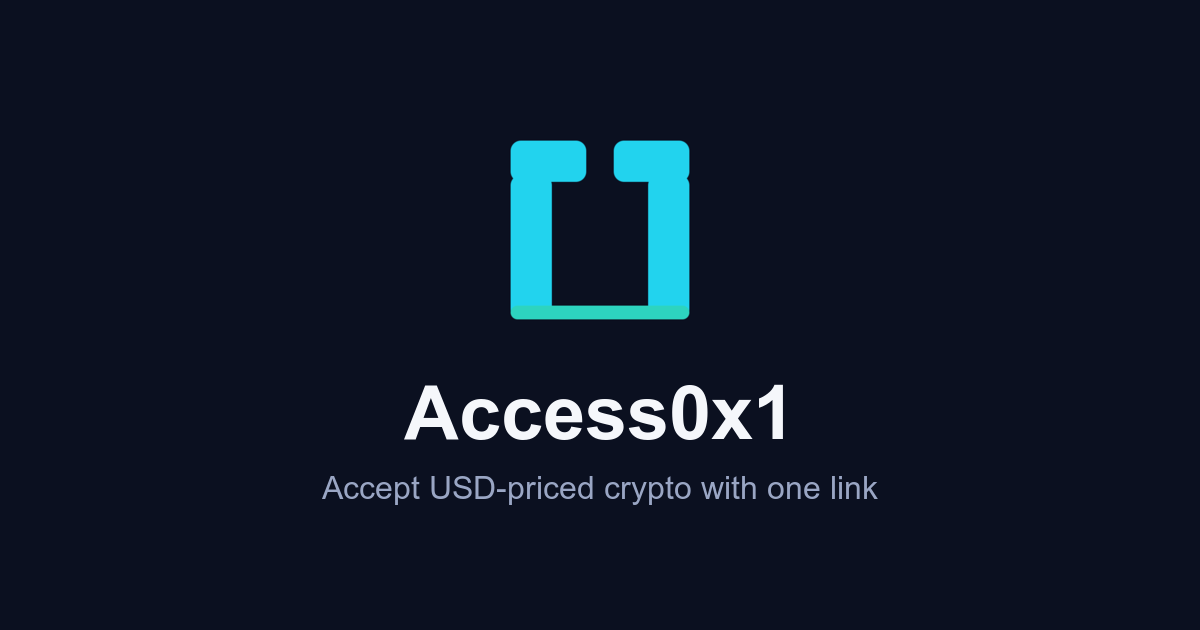
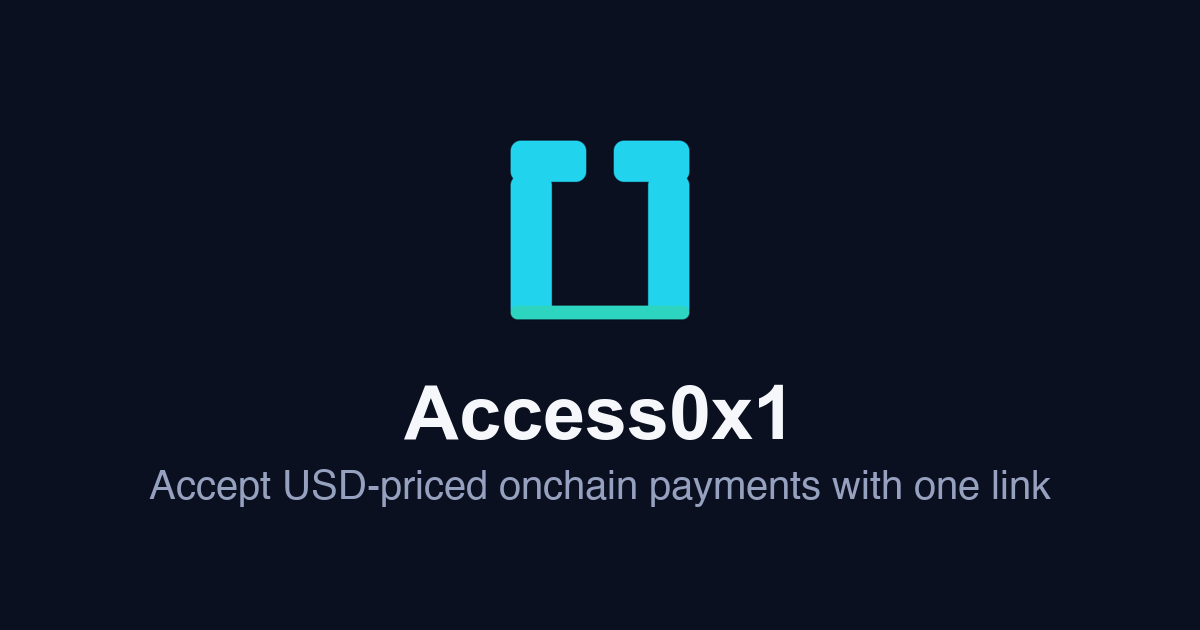
copy: "crypto" out of every rendered surface; claims trued up
Reword user-facing copy from "crypto" to concrete, accurate language
("USD-priced onchain payments", "get paid in USDC") across the hero,
feature grid, onboarding view, page/layout metadata, manifest, judge
facts, ask/landing intros — and the two surfaces a text grep can't see:
og.png (tagline was baked into the pixels; re-rendered, same design) and
the embed's default buyer button label ('Pay with Crypto' → 'Pay with
USDC', verify-embed assertion updated in lockstep). Truth fixes riding
along: "Twelve open-source contracts" (wrong in every reading) → a
non-numeric phrase; "A Chainlink feed quotes the USD price" → "a
Chainlink-interface price feed" (accurate on chains where the wired feed
is a mock); doubled "get paid in USDC" in the onboard descriptions
deduped; README + marketing/seo.md metadata mirrors re-synced (SEO
keyword-target tables intentionally untouched — they quote search
phrases, not our copy). JS API uses (Web Crypto, third-party field
names) and code comments unchanged. Web gate: tsc clean, 1254/1254.

Changed region(s): [[0.1233, 0.7238, 0.8942, 0.8143]]

diff --git a/web/app/marketing-metadata.ts b/web/app/marketing-metadata.ts
@@ -83,7 +83,7 @@ const baseTwitter = {
  * bare domain before the redirect resolves. `index, follow`.
  */
 export const rootMetadata = {
-  title: 'Accept USD-priced crypto with one link · Access0x1',
+  title: 'Accept USD-priced onchain payments with one link · Access0x1',
   description:
     'Onboard once, share a link, get paid in USDC. Zero custody — every payment settles ' +
     'merchant-to-payout in a single transaction. Open-source router. Testnet.',
@@ -113,7 +113,7 @@ export const rootMetadata = {
  * server `layout.tsx` exports this; the client view renders unchanged. `index, follow`.
  */
 export const onboardMetadata = {
-  title: 'Create your crypto payment link · Access0x1',
+  title: 'Create your USDC payment link · Access0x1',
   description:
     'Make it yours: set a name, a tagline, and a logo, then accept USDC with one link — ' +
     'no code, no contract, no gas to manage. Non-custodial. Testnet build.',
@@ -124,7 +124,7 @@ export const onboardMetadata = {
     title: 'Onboard in minutes — your branded USDC checkout link',
     description:
       'Register once, share one link, get paid in USDC. Zero custody, USD-priced via ' +
-      'Chainlink. The non-custodial way to accept crypto.',
+      'Chainlink. Zero-custody by design.',
     url: `${SITE_ORIGIN}/onboard`,
     images: [{ url: '/og/onboard.png', width: 1200, height: 630, alt: 'Access0x1 — onboard' }],
   },
@@ -133,7 +133,7 @@ export const onboardMetadata = {
     title: 'Onboard in minutes — your branded USDC checkout link',
     description:
       'Register once, share one link, get paid in USDC. Zero custody, USD-priced via ' +
-      'Chainlink. The non-custodial way to accept crypto.',
+      'Chainlink. Zero-custody by design.',
     images: ['/og/onboard.png'],
   },
 } satisfies Metadata;
@@ -174,7 +174,7 @@ export const dashboardMetadata = {
  * `index, follow`.
  */
 export const askMetadata = {
-  title: 'Ask Access0x1 — crypto payments & agents AI · Access0x1',
+  title: 'Ask Access0x1 — onchain payments & agents AI · Access0x1',
   description:
     'Ask anything about onchain payments, USDC, agents, and zero-custody commerce. ' +
     'Answers grounded in the open-source Access0x1 repo. Testnet build.',
@@ -184,7 +184,7 @@ export const askMetadata = {
     ...baseOpenGraph,
     title: 'Ask Access0x1 — answers about onchain payments & agent USDC',
     description:
-      'A grounded AI assistant for the open Access0x1 stack: USD-priced crypto checkout, ' +
+      'A grounded AI assistant for the open Access0x1 stack: USD-priced onchain checkout, ' +
       'non-custodial settlement, and agent payments.',
     url: `${SITE_ORIGIN}/ask`,
     images: [{ url: '/og/ask.png', width: 1200, height: 630, alt: 'Ask Access0x1' }],
@@ -193,7 +193,7 @@ export const askMetadata = {
     ...baseTwitter,
     title: 'Ask Access0x1 — answers about onchain payments & agent USDC',
     description:
-      'A grounded AI assistant for the open Access0x1 stack: USD-priced crypto checkout, ' +
+      'A grounded AI assistant for the open Access0x1 stack: USD-priced onchain checkout, ' +
       'non-custodial settlement, and agent payments.',
     images: ['/og/ask.png'],
   },
@@ -390,18 +390,18 @@ export const softwareApplicationJsonLd = {
   '@type': 'SoftwareApplication',
   name: 'Access0x1',
   applicationCategory: 'FinanceApplication',
-  applicationSubCategory: 'Crypto payments / checkout SDK',
+  applicationSubCategory: 'Onchain payments / checkout SDK',
   operatingSystem: 'Web',
   url: SITE_ORIGIN,
   description:
     'Open-source, non-custodial onchain layer for payments, auth, and agents. Accept ' +
-    'USD-priced crypto in USDC with one link — no contract code, zero custody.',
+    'USD-priced payments in USDC with one link — no contract code, zero custody.',
   softwareVersion: '0.1.0',
   isAccessibleForFree: true,
   license: 'https://opensource.org/license/mit',
   offers: { '@type': 'Offer', price: '0', priceCurrency: 'USD' },
   featureList: [
-    'USD-priced crypto checkout (Chainlink quotes)',
+    'USD-priced onchain checkout (Chainlink-interface price feeds)',
     'One-link / one-tag hosted checkout',
     'Non-custodial settlement (zero custody)',
     'Agent payments in USDC (ERC-6909 PaymentLanes, ERC-7702 sessions)',

diff --git a/web/lib/judge/facts.ts b/web/lib/judge/facts.ts
@@ -36,10 +36,10 @@ export const FACT_SECTIONS: readonly FactSection[] = [
     title: 'What Access0x1 is',
     body:
       'Access0x1 is an open-source (MIT), multi-chain, zero-custody layer for getting a ' +
-      'business onchain: USD-priced crypto payments, a commerce suite (subscriptions, ' +
+      'business onchain: USD-priced onchain payments, a commerce suite (subscriptions, ' +
       'bookings, invoices, gift cards, NFTs), and identity/auth — white-label for ' +
       'non-coders and agent-native. A business registers once and accepts USD-priced ' +
-      'crypto with a single link: no per-merchant contract to deploy, no custody. One ' +
+      'payments in USDC with a single link: no per-merchant contract to deploy, no custody. One ' +
       'shared, multi-tenant Access0x1Router serves every merchant; a permissionless ' +
       'registerMerchant returns a merchantId and the caller owns only their own config. ' +
       'It is built so a developer writes NO Solidity to integrate — they point a drop-in ' +
@@ -175,7 +175,7 @@ export const FACT_SECTIONS: readonly FactSection[] = [
       'Circle + Arc: USDC-as-native-gas gives gas-free checkout with no Paymaster code, ' +
       'and a Circle Gateway / x402 seam (web/app/api/gateway/*) lets a seller read and ' +
       'withdraw their settled USDC. Dynamic (web/lib/dynamic.ts): an email sign-in ' +
-      'becomes an embedded wallet so a buyer who has never held crypto can still complete ' +
+      'becomes an embedded wallet so a buyer who has never held a wallet can still complete ' +
       'a USDC checkout. Unlink (web/lib/unlink): a confidential withdrawal leg lets a ' +
       'merchant shield and move settled USDC without exposing the amount, off the money ' +
       'path. World ID (web/components/WorldIdGate.tsx): an optional one-tap ' +
@@ -267,7 +267,7 @@ export const FACT_SECTIONS: readonly FactSection[] = [
       'custody and no float — revenue is purely the transparent on-chain fee on real ' +
       'settled volume. The open-source router plus the no-code, white-label checkout and ' +
       'the agent/commerce primitives are the distribution: any business or any app built ' +
-      'from the starter template can accept USD-priced crypto in minutes, and Access0x1 ' +
+      'from the starter template can accept USD-priced onchain payments in minutes, and Access0x1 ' +
       'earns on the volume that flows through the shared router.',
   },
   {
@@ -288,7 +288,7 @@ export const FACT_SECTIONS: readonly FactSection[] = [
 
 /** Short, human one-liner used in the page header and as the assistant's self-description. */
 export const JUDGE_BOT_TAGLINE =
-  'Ask anything about Access0x1 — the open, zero-custody, USD-priced crypto payments + ' +
+  'Ask anything about Access0x1 — the open, zero-custody, USD-priced onchain payments + ' +
   'agents + commerce layer. Answers are grounded in the repo (testnet build).'
 
 /**

diff --git a/web/components/marketing/Hero.tsx b/web/components/marketing/Hero.tsx
@@ -3,7 +3,7 @@
  *
  * Pure presentational, server-renderable: no hooks, no client JS. It states the
  * product one-liner ("The open-source rail for onchain identity + USD-priced
- * crypto payments") and frames the value prop, then hands the visitor straight
+ * onchain payments") and frames the value prop, then hands the visitor straight
  * to the primary CTA (rendered separately by LandingCTA so the call-to-action
  * lives in one place).
  *
@@ -19,7 +19,7 @@ import { LandingCTA } from '@/components/marketing/LandingCTA'
 
 /** The product one-liner — the single sentence the page is built around. */
 const ONE_LINER =
-  'The open-source rail for onchain identity + USD-priced crypto payments'
+  'The open-source rail for onchain identity + USD-priced payments in USDC'
 
 export function Hero(): ReactNode {
   return (
@@ -51,7 +51,7 @@ export function Hero(): ReactNode {
         {/* Sub-headline: what it means in plain terms. */}
         <p className="max-w-xl text-balance text-lg text-muted-foreground">
           Access0x1 is the open umbrella layer apps build on — the shared,
-          on-chain rail for accepting USD-priced crypto, proving identity, and
+          on-chain rail for accepting USD-priced payments in USDC, proving identity, and
           letting agents act on your behalf. Onboard once, share a link, get paid
           in USDC — zero custody, no smart-contract code to write.
         </p>

diff --git a/web/components/marketing/FeatureGrid.tsx b/web/components/marketing/FeatureGrid.tsx
@@ -44,7 +44,7 @@ const FEATURES: readonly Feature[] = [
   {
     title: 'Payments',
     description:
-      'Accept USD-priced crypto with one link. A Chainlink feed quotes the price inside the pay transaction; funds settle merchant-to-payout with zero custody.',
+      'Get paid in USDC with one link. A Chainlink-interface price feed quotes the USD price inside the pay transaction; funds settle merchant-to-payout with zero custody.',
     contract: 'Access0x1Router.sol',
     glyph: '💸',
   },
@@ -100,7 +100,7 @@ export function FeatureGrid(): ReactNode {
           One center, the whole commerce stack
         </h2>
         <p className="mt-3 text-balance text-muted-foreground">
-          Twelve open-source contracts behind a single link. Turn on only what
+          A full suite of open-source contracts behind a single link. Turn on only what
           you need — every piece shares the same no-custody settlement spine.
         </p>
       </div>

diff --git a/web/app/page.tsx b/web/app/page.tsx
@@ -25,7 +25,7 @@ export const metadata: Metadata = {
   title: 'Access0x1 — a do-it-all center to get you and your business onchain',
   description:
     'Access0x1 is the open, on-chain layer for payments, auth, and agents. Accept ' +
-    'USD-priced crypto with one link, prove identity with ENS, and let agents act ' +
+    'USD-priced payments in USDC with one link, prove identity with ENS, and let agents act ' +
     'within scoped grants — zero custody, no contract code. Live on Arc, Base, and ' +
     'zkSync, powered by Chainlink.',
 }

diff --git a/web/app/layout.tsx b/web/app/layout.tsx
@@ -31,7 +31,7 @@ const spaceGrotesk = Space_Grotesk({
  * (Open Graph + Twitter) that the convention files can't express.
  */
 const SITE_URL = 'https://access0x1.click'
-const TITLE = 'Access0x1 — accept USD-priced crypto with one link'
+const TITLE = 'Access0x1 — accept USD-priced onchain payments with one link'
 const DESCRIPTION =
   'Onboard once, share a link, get paid in USDC. Zero custody — every payment settles ' +
   'merchant to payout in a single transaction. Powered by the open-source Access0x1 router.'

diff --git a/web/components/pages/OnboardView.tsx b/web/components/pages/OnboardView.tsx
@@ -51,7 +51,7 @@ export function OnboardView(): ReactNode {
       </header>
 
       <p className="text-sm text-muted-foreground">
-        Access0x1 turns your business into a crypto-friendly storefront — a branded checkout link that
+        Access0x1 turns your business into an onchain storefront — a branded checkout link that
         accepts USDC, with no code, no contract, and no gas to manage. Set your name, a one-line
         description, and a logo below to get yours, live in under two minutes.
       </p>

diff --git a/web/scripts/verify-embed.js b/web/scripts/verify-embed.js
@@ -206,7 +206,7 @@ test('boot: injects a button after the script tag (basic injection)', () => {
   assert.ok(btn, 'button not injected');
   assert.strictEqual(btn.tagName, 'BUTTON');
   const label = btn.querySelector('.a0x1-label');
-  assert.strictEqual(label.textContent, 'Pay with Crypto');
+  assert.strictEqual(label.textContent, 'Pay with USDC');
 });
 
 test('boot: zero amount is rejected before any RPC call (no button)', () => {

diff --git a/web/app/ask/page.tsx b/web/app/ask/page.tsx
@@ -6,7 +6,7 @@ import { AskView } from '@/components/pages/AskView'
 export const metadata: Metadata = {
   title: 'Ask Access0x1 — AI assistant',
   description:
-    'Ask anything about Access0x1: the open, zero-custody, USD-priced crypto payments, ' +
+    'Ask anything about Access0x1: the open, zero-custody, USD-priced onchain payments, ' +
     'agents, and commerce layer. Answers are grounded in the repo (testnet build).',
 }
 

diff --git a/web/app/manifest.ts b/web/app/manifest.ts
@@ -13,7 +13,7 @@ export default function manifest(): MetadataRoute.Manifest {
   return {
     name: 'Access0x1',
     short_name: 'Access0x1',
-    description: 'Accept USD-priced crypto with one link — zero custody, no contract code.',
+    description: 'Accept USD-priced onchain payments with one link — zero custody, no contract code.',
     start_url: '/',
     display: 'standalone',
     background_color: '#0B1020',

diff --git a/web/public/embed.js b/web/public/embed.js
@@ -77,7 +77,7 @@
   };
 
   var DEFAULT_CHAIN_ID = 5042002;
-  var DEFAULT_LABEL = 'Pay with Crypto';
+  var DEFAULT_LABEL = 'Pay with USDC';
   /** USD amounts on-chain carry 8 decimals (router USD_DECIMALS == 8). */
   var USD_DECIMALS = 8;
   /** Function selector for quote(uint256,address,uint256). */

diff --git a/README.md b/README.md
@@ -2,7 +2,7 @@
 
 <div align="center">
 
-**The open-source rail for onchain identity + USD-priced crypto payments. One link, no code, no contract, no gas. Apps build on it.**
+**The open-source rail for onchain identity + USD-priced payments in USDC. One link, no code, no contract, no gas. Apps build on it.**
 
 Access0x1 is the umbrella layer everything plugs into — non-custodial payments, commerce (subscriptions · bookings · invoices · gift cards), tokenization (ERC-7943 uRWA compliant assets · ERC-6551 token bound accounts), and identity, white-label for non-coders and agent-native. One shared rail per chain; apps build on top, no per-app contract code.
 
@@ -75,7 +75,7 @@ cast send --account deployer --rpc-url "$ARC_TESTNET_RPC" \
 />
 ```
 
-That's the whole loop: register once, then collect USD-priced crypto with a single drop-in — zero
+That's the whole loop: register once, then collect USD-priced payments in USDC with a single drop-in — zero
 custody, no per-merchant contract. The full walkthrough is the **[Quickstart](docs/QUICKSTART.md)**.
 
 > **ETHGlobal NY 2026 build · testnet only.** The money spine (`router-core`) is complete, green,
@@ -87,7 +87,7 @@ custody, no per-merchant contract. The full walkthrough is the **[Quickstart](do
 
 ## What it is
 
-A business registers once and accepts **USD-priced crypto with a single link** — no per-merchant
+A business registers once and accepts **USD-priced payments in USDC with a single link** — no per-merchant
 contract, no custody. One shared, multi-tenant [`Access0x1Router`](src/Access0x1Router.sol) serves
 every merchant. Each payment prices USD → token through a Chainlink feed read *inside the settlement
 transaction*, splits an exact fee, and pushes the net to the merchant in the same tx. The contract
@@ -827,7 +827,7 @@ no-op, never a blocked payment). The detail for each — file paths and exact be
 | --- | --- | --- |
 | **Circle + Arc** | USDC as the native gas token (Arc) + the Gateway / x402 settlement seam | Gas-free checkout with **zero Paymaster code** — the payer pays gas in USDC, so we wrote a chain config and a pay button |
 | **Chainlink** | `<token>/USD` Data Feeds read in-transaction (+ CRE for the audit consumer) | The settled price is trusted **on-chain**, not a frontend guess — one in-tx call gave us USD→USDC pricing |
-| **Dynamic** | Email sign-in backed by an embedded wallet | A buyer who has never held crypto completes a USDC checkout — no seed phrase, no extension |
+| **Dynamic** | Email sign-in backed by an embedded wallet | A buyer who has never held a wallet completes a USDC checkout — no seed phrase, no extension |
 | **Unlink** | Confidential-withdrawal seam (`@unlink-xyz/sdk`) | A merchant can shield a settled-USDC payout off the public ledger; absent the SDK it degrades to a standard payout |
 | **World ID** | One-tap proof-of-personhood gate before pay | Verified-human checkout that sits **in front of** settlement — a misconfigured gate degrades, never blocks |
 | **OIDC (e.g. Sign in with Google)** | Server-side ID-token verification via `jose` | "Verify for all" — any app from this template inherits an `oidc` method by setting one env var; blank ⇒ OFF |
@@ -857,7 +857,7 @@ integration let us *not* build, not a marketing wall.
   [`Access0x1Receiver`](src/Access0x1Receiver.sol).)
 - **Dynamic — an email login became an invisible wallet.** [`web/lib/dynamic.ts`](web/lib/dynamic.ts)
   and the [providers](web/app/providers.tsx) turn a normal email sign-in into an embedded wallet, so a
-  buyer who has never held crypto can still complete a USDC checkout — no seed phrase, no extension.
+  buyer who has never held a wallet can still complete a USDC checkout — no seed phrase, no extension.
 - **Unlink — confidential payouts (integration seam).** [`web/lib/unlink`](web/lib/unlink) is a private-
   withdrawal seam: with the `@unlink-xyz/sdk` installed it lets a merchant shield and move their settled
   USDC without exposing the amount on a public ledger; absent the SDK it degrades to a standard USDC
